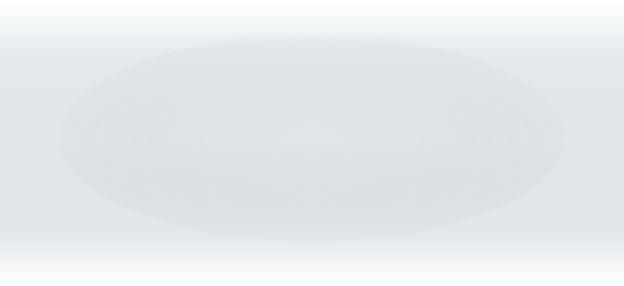
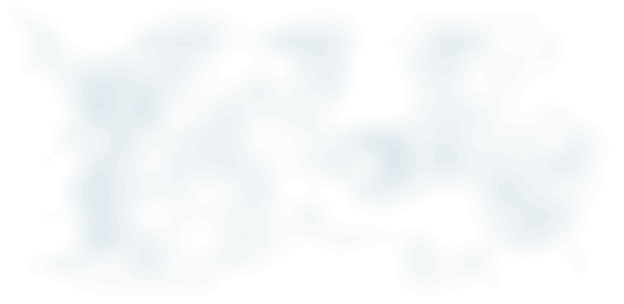
Replace striped altitude transition veil

diff --git a/tools/build_altitude_transition_veil.py b/tools/build_altitude_transition_veil.py
@@ -1,0 +1,70 @@
+#!/usr/bin/env python3
+"""Build the registered cel-fog plate used while the VX-94 crosses a cloud deck."""
+
+from __future__ import annotations
+
+import json
+import random
+from hashlib import sha256
+from pathlib import Path
+
+from PIL import Image, ImageChops, ImageFilter
+
+
+ROOT = Path(__file__).resolve().parents[1]
+OUTPUT = ROOT / "assets/runtime/ui/hud/altitude_transition/atmospheric_veil.png"
+SOURCE = ROOT / "assets/source/environments/altitude_transition_veil_v2"
+WIDTH, HEIGHT, SEED = 624, 304, 94062
+
+
+def noise_layer(rng: random.Random, columns: int, rows: int, blur: float) -> Image.Image:
+    coarse = Image.new("L", (columns, rows))
+    coarse.putdata([rng.randrange(18, 238) for _ in range(columns * rows)])
+    return coarse.resize((WIDTH, HEIGHT), Image.Resampling.BICUBIC).filter(ImageFilter.GaussianBlur(blur))
+
+
+def build() -> Image.Image:
+    rng = random.Random(SEED)
+    broad = noise_layer(rng, 9, 5, 13.0)
+    detail = noise_layer(rng, 23, 12, 4.5)
+    density = ImageChops.blend(broad, detail, 0.34)
+
+    # Keep the fog as overlapping cel masses rather than a rectangular wipe.
+    mask = Image.new("L", (WIDTH, HEIGHT), 0)
+    pixels = mask.load()
+    source = density.load()
+    for y in range(HEIGHT):
+        edge_y = min(1.0, y / 42.0, (HEIGHT - 1 - y) / 42.0)
+        for x in range(WIDTH):
+            edge_x = min(1.0, x / 54.0, (WIDTH - 1 - x) / 54.0)
+            edge = max(0.0, min(edge_x, edge_y))
+            shaped = max(0.0, (source[x, y] - 76) / 179.0) * edge
+            pixels[x, y] = min(176, int(shaped * 176) // 16 * 16)
+
+    image = Image.new("RGBA", (WIDTH, HEIGHT), (190, 211, 220, 0))
+    image.putalpha(mask)
+    return image
+
+
+def main() -> int:
+    image = build()
+    OUTPUT.parent.mkdir(parents=True, exist_ok=True)
+    SOURCE.mkdir(parents=True, exist_ok=True)
+    image.save(OUTPUT, "PNG", optimize=True)
+    digest = sha256(OUTPUT.read_bytes()).hexdigest()
+    manifest = {
+        "schema_version": 1,
+        "asset": "altitude_transition_veil_v2",
+        "seed": SEED,
+        "geometry": [WIDTH, HEIGHT],
+        "style": "irregular limited-alpha cel fog; no scanline or checkerboard content",
+        "runtime": str(OUTPUT.relative_to(ROOT)).replace("\\", "/"),
+        "sha256": digest,
+    }
+    (SOURCE / "manifest.json").write_text(json.dumps(manifest, indent=2) + "\n", encoding="utf-8")
+    print(f"built {OUTPUT.relative_to(ROOT)} {digest}")
+    return 0
+
+
+if __name__ == "__main__":
+    raise SystemExit(main())
